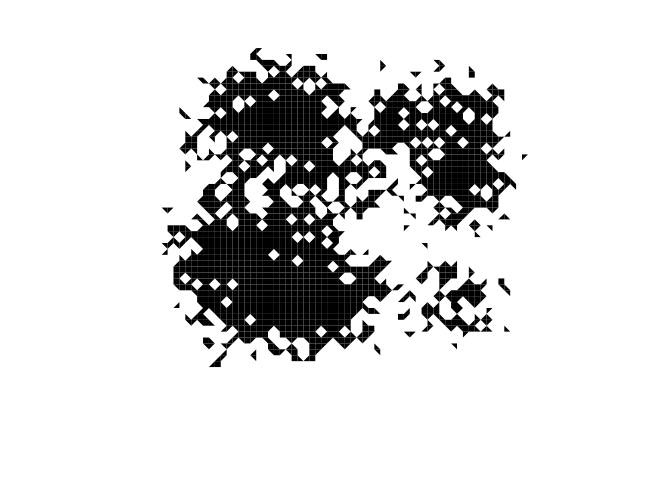
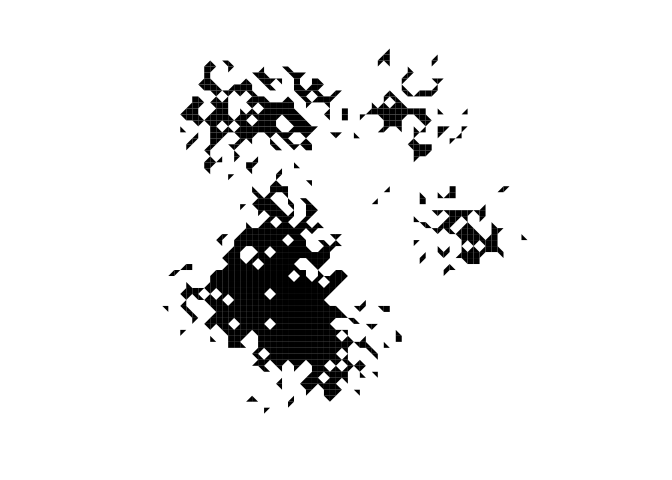
It's a mushroom!

Changed region(s): [[0.2188, 0.0938, 0.7812, 0.8438], [0.6875, 0.125, 0.7188, 0.1562], [0.4688, 0.0938, 0.5, 0.125]]

diff --git a/README.md b/README.md
@@ -77,8 +77,8 @@ Let's generate some inkblots and visualize them:
 ``` r
 set.seed(20160326)
 mat <- matrix(NA_integer_, 100, 100)
-x   <- replicate(20, rnorm(250, mean = sample((3:7)*10, 1), 5))
-y   <- replicate(20, rnorm(250, mean = sample((3:7)*10, 1), 5))
+x   <- replicate(10, rnorm(250, mean = sample((3:7)*10, 1), 5))
+y   <- replicate(10, rnorm(250, mean = sample((3:7)*10, 1), 5))
 obs <- matrix(round(c(x, y)), ncol = 2)
 mat[obs]  <- 1L
 diag(mat) <- 0L
